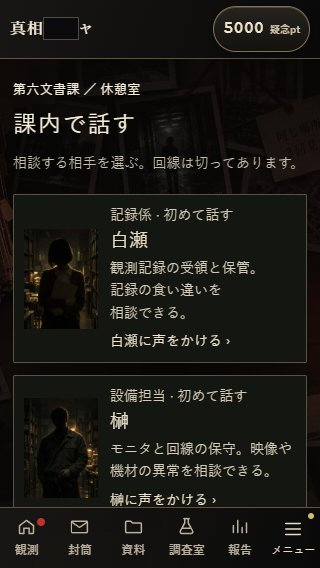
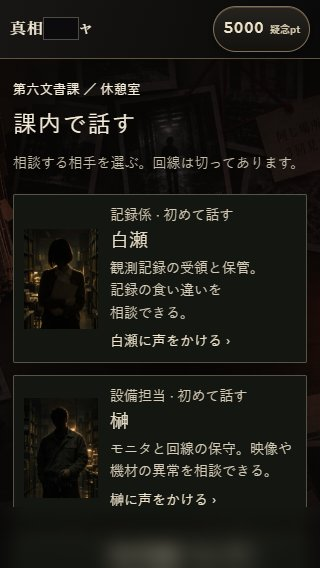
Keep observation nav current during colleague conversations (#260)

diff --git a/index.html b/index.html
@@ -1,7 +1,7 @@
 <!doctype html>
 <html lang="ja">
 <meta charset="utf-8">
-<meta http-equiv="Content-Security-Policy" content="default-src 'self'; script-src 'self' 'sha256-fo68Op0iOkdundmHqzKe9qQA4/zKK46ApWWTHYAW+ZM=' https://www.gstatic.com/firebasejs/ https://cdn.jsdelivr.net/npm/budoux@0.9.3/ https://apis.google.com; style-src 'self' 'unsafe-inline' https://fonts.googleapis.com; font-src 'self' data: https://fonts.gstatic.com; img-src 'self' data:; connect-src 'self' https://*.googleapis.com https://*.firebaseio.com wss://*.firebaseio.com https://shinso-gacha.firebaseapp.com; frame-src https://shinso-gacha.firebaseapp.com https://accounts.google.com; object-src 'none'; base-uri 'none'; form-action 'none'">
+<meta http-equiv="Content-Security-Policy" content="default-src 'self'; script-src 'self' 'sha256-7NA+zo2gVAM27dD3Q2HcXThj6VvmEvCAJpHDr4rJX74=' https://www.gstatic.com/firebasejs/ https://cdn.jsdelivr.net/npm/budoux@0.9.3/ https://apis.google.com; style-src 'self' 'unsafe-inline' https://fonts.googleapis.com; font-src 'self' data: https://fonts.gstatic.com; img-src 'self' data:; connect-src 'self' https://*.googleapis.com https://*.firebaseio.com wss://*.firebaseio.com https://shinso-gacha.firebaseapp.com; frame-src https://shinso-gacha.firebaseapp.com https://accounts.google.com; object-src 'none'; base-uri 'none'; form-action 'none'">
 <meta name="referrer" content="strict-origin-when-cross-origin">
 <meta name="viewport" content="width=device-width, initial-scale=1, viewport-fit=cover">
 <title>真相ガチャ</title>
@@ -2509,7 +2509,8 @@ function go(view) {
   if (view === "home" && !isLite()) setHomeTab("desk");
   if (!isLite()) defaultSectionTab(view);
   document.querySelectorAll("[data-view]").forEach(v => v.hidden = v.dataset.view !== view);
-  document.querySelectorAll("[data-nav]").forEach(b => { if (b.dataset.nav === view) b.setAttribute("aria-current", "page"); else b.removeAttribute("aria-current"); });
+  const activeNav = view === "colleagues" ? "home" : view;
+  document.querySelectorAll("[data-nav]").forEach(b => { if (b.dataset.nav === activeNav) b.setAttribute("aria-current", "page"); else b.removeAttribute("aria-current"); });
   const menuButton=document.getElementById("game-menu");
   if(view==="menu")menuButton.setAttribute("aria-current","page");else menuButton.removeAttribute("aria-current");
   window.scrollTo(0, 0);

diff --git a/docs/CURRENT-SPEC.md b/docs/CURRENT-SPEC.md
@@ -65,6 +65,7 @@
 - 課員は白瀬（記録係）、榊（設備担当）、三輪（先輩調査員）。最初の挨拶と話題ごとの返答、会話履歴、回復クールダウンは保存。会話だけで無限回復やポイントを稼がせない。
 - 課内会話の相手一覧では役割・面識、説明、声をかける操作を14px以上で示す。会話中の人物説明・状況・選択話題も暗い面で読める14px以上とし、狭い画面では折り返して表示する。会話内容、保存、回復、ptは表示調整で変えない。
 - 相手一覧は3名の選択に集中させ、観測へは常設の下部ナビ「観測」から戻る。ここに重複の戻るボタンを置かない。会話詳細の「会話を終えて観測へ戻る」と Escape の段階的な戻り方は残す。相手一覧へ入ると観測回線が切れる契約は変えない。
+- 相手一覧と会話詳細では、下部ナビの現在地を親セクション「観測」として表示・読み上げる。観測以外の項目を同時に現在地とせず、復帰した観測画面でも現在地表示を維持する。
 - 課内地位は RANK 1〜3／4〜6／7〜10／11〜14／15〜17／18〜20 の6区分。上位になるほど記録の矛盾が深まるが、既存の観測抽選を直接増加させない。
 - RANK 4/7/11/15/18では三人から人事の矛盾を収集できる。実際に聴いた証言のみ人物図鑑へ出し、三者の照合で一度だけ確定・受信箱へ通知。未入手の証言・結論は表示しない。
 - 取得済みの都市伝説事件には、再鑑定、関連する別事件との照合、仮説報告、未登録立会人・未来報告の一部が接続する。未入手の名称・画像はDOMに出さない。

diff --git a/docs/EXPERIENCE-DESIGN.md b/docs/EXPERIENCE-DESIGN.md
@@ -64,6 +64,7 @@
 
 会話の相手を選ぶ画面では、役割・面識・相手の説明・声をかける操作を名前と同じ読み順で追えるようにする。会話中の状況と選んだ話題も小さな飾り文字にせず、暗い背景に沈まない明るさと14px以上の文字で示す。行が増える場合はスクロールし、肖像や操作に文字を重ねない。
 相手一覧の末尾に常設ナビと同じ「観測へ戻る」を重ねず、最後の課員まで読んだら一覧を終える。観測への復帰は下部ナビ、会話を明示的に終える操作は詳細ページの文脈付きボタンとし、役割を分ける。狭い画面でも最後の課員と下部ナビを押せることを確認する。
+課内会話は観測から派生する読書画面なので、下部ナビの現在地表示は「観測」のままにする。ほかの行き先を同時に選択状態にせず、相手選択と会話詳細の両方で位置関係を示す。
 
 ## 4. ホラーの基本手法（再利用可）
 
